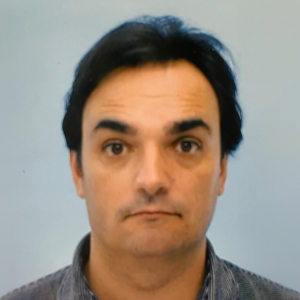
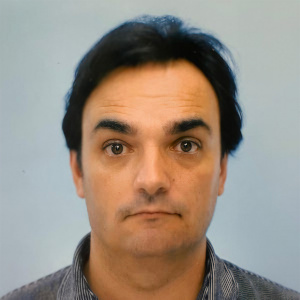
Adding pictures

diff --git a/content/english/members/baccouche.md b/content/english/members/baccouche.md
@@ -1,7 +1,7 @@
 ---
 title: Alexandre BACCOUCHE
 email: 
-image: "/images/ava/baccouche.png"
+image: "/images/ava/alex.jpg"
 description:
 ---
 